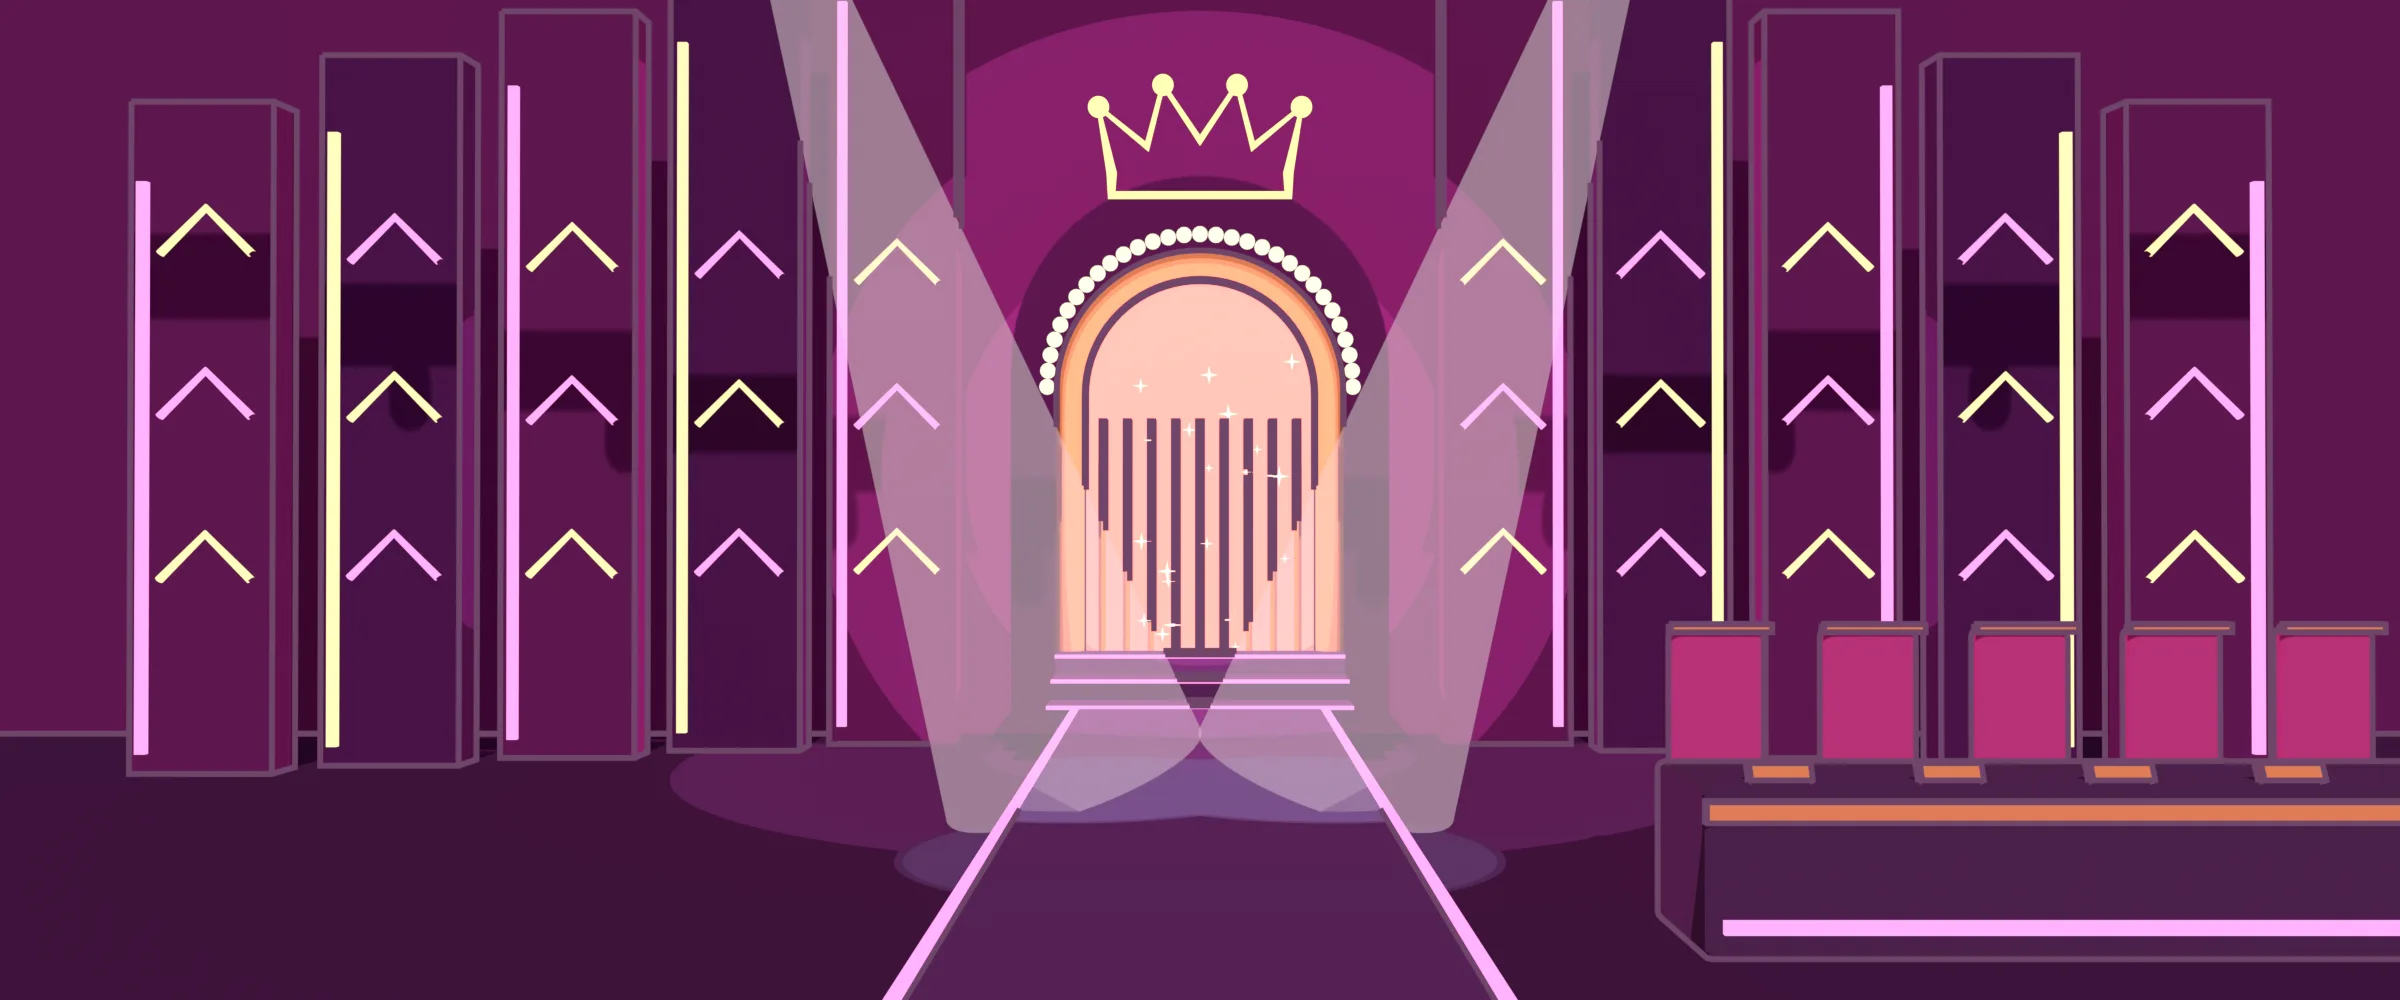
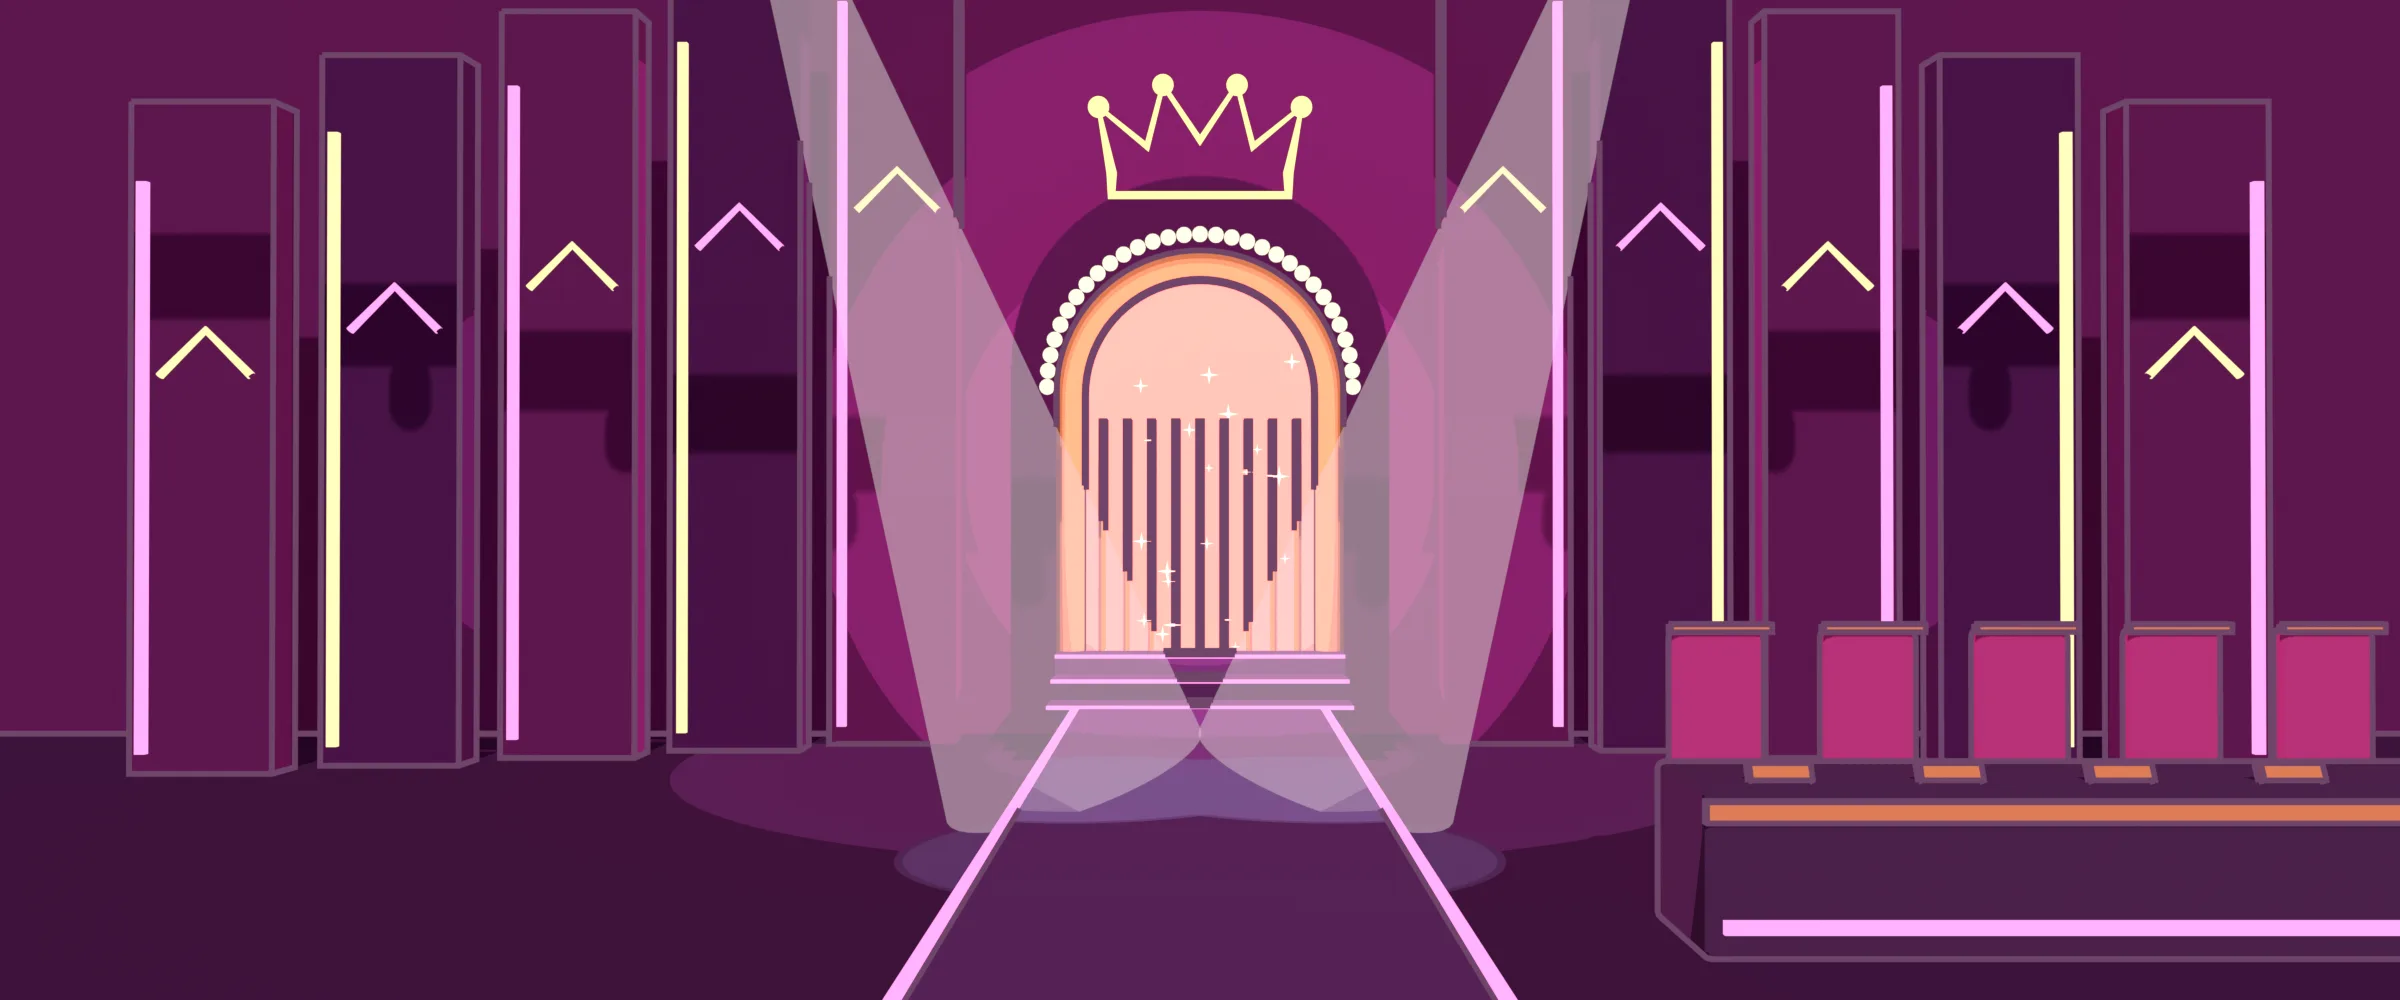
fix(dr): the sets sit back so the stage reads
User: "it seems a little busy and it makes it difficult to read". The main
stage keeps one neon chevron a panel and two beams; the room behind every
frame is blurred and veiled darker, and faint around a frame that has its
own lit box (the runway hall); the photographers' pit is invisible until it
flashes; the hall darkens behind the queen.

diff --git a/js/vp-dr/night-stage.js b/js/vp-dr/night-stage.js
@@ -76,7 +76,7 @@ export const NIGHT_STAGE_CSS = `${FINALE_STAGE_CSS}
 .rwx-bulbs i{width:6px;height:6px;border-radius:50%;background:#ffd66b;box-shadow:0 0 8px #ffd66b;animation:rwx-bulb 1.2s steps(2) infinite;animation-delay:var(--dl)}
 @keyframes rwx-bulb{50%{background:#5a3a10;box-shadow:none}}
 .rwx-hall{position:relative;height:230px;margin-top:10px;border-radius:14px;overflow:hidden;perspective:520px;
-  background:radial-gradient(60% 60% at 50% 20%,rgba(255,255,255,.08),transparent 70%),linear-gradient(180deg,rgba(10,3,8,.15),rgba(10,3,8,.55)),url(assets/sets/dr/mainstage.webp) center 62%/cover no-repeat,#0a0308}
+  background:radial-gradient(60% 60% at 50% 20%,rgba(255,255,255,.08),transparent 70%),radial-gradient(38% 70% at 50% 45%,rgba(10,3,8,.55),transparent 75%),linear-gradient(180deg,rgba(10,3,8,.35),rgba(10,3,8,.65)),url(assets/sets/dr/mainstage.webp) center 62%/cover no-repeat,#0a0308}
 /* the render has the runway; the drawn floor only under reduced sets */
 .rwx-hall .rwx-floor{opacity:0}
 .rwx-floor{position:absolute;left:50%;bottom:-40px;width:170px;height:420px;margin-left:-85px;transform-origin:50% 100%;
@@ -84,7 +84,7 @@ export const NIGHT_STAGE_CSS = `${FINALE_STAGE_CSS}
   box-shadow:-6px 0 0 #ff7bc8,6px 0 0 #ff7bc8,0 0 60px rgba(255,123,200,.4)}
 .rwx-pit{position:absolute;top:30%;bottom:0;width:22%;display:grid;grid-template-columns:repeat(3,1fr);align-content:end;gap:6px;padding:8px}
 .rwx-pit.l{left:0}.rwx-pit.r{right:0}
-.rwx-pit i{height:12px;border-radius:3px;background:#1e1016;box-shadow:inset 0 0 0 1px rgba(255,255,255,.06)}
+.rwx-pit i{height:12px;border-radius:3px;background:transparent}
 .fsx.flash .rwx-pit i{animation:rwx-flash .5s steps(1) 4;animation-delay:var(--dl)}
 @keyframes rwx-flash{50%{background:#fff;box-shadow:0 0 22px 8px rgba(255,255,255,.9)}}
 .rwx-q{position:absolute;left:50%;top:14px;display:none;flex-direction:column;align-items:center;gap:6px;transform:translateX(-50%)}

diff --git a/js/vp-dr/finale-stage.js b/js/vp-dr/finale-stage.js
@@ -77,10 +77,12 @@ export const FINALE_STAGE_CSS = `
 /* THE SETS: each room is a render (tools/blender/dr-werkroom.py, dr-sets.py),
    under a dark veil so the cards on top still read. The main stage is the
    default: every unthemed frame (the finale, the crown) is on it too. */
-.fsx-bg::before{content:'';position:absolute;inset:0;pointer-events:none;
-  background:linear-gradient(180deg,rgba(8,2,10,.38),rgba(8,2,10,.62) 55%,rgba(8,2,10,.86)),url(assets/sets/dr/mainstage.webp) center 30%/cover no-repeat}
-.fsx.th-werk .fsx-bg::before{background-image:linear-gradient(180deg,rgba(5,4,15,.38),rgba(5,4,15,.62) 55%,rgba(5,4,15,.86)),url(assets/sets/dr/werkroom.webp)}
-.fsx.th-lounge .fsx-bg::before{background-image:linear-gradient(180deg,rgba(7,4,13,.38),rgba(7,4,13,.62) 55%,rgba(7,4,13,.86)),url(assets/sets/dr/untucked.webp)}
+.fsx-bg::before{content:'';position:absolute;inset:-6px;pointer-events:none;filter:blur(2.5px) saturate(.85);
+  background:linear-gradient(180deg,rgba(8,2,10,.5),rgba(8,2,10,.72) 55%,rgba(8,2,10,.9)),url(assets/sets/dr/mainstage.webp) center 30%/cover no-repeat}
+.fsx.th-werk .fsx-bg::before{background-image:linear-gradient(180deg,rgba(5,4,15,.5),rgba(5,4,15,.72) 55%,rgba(5,4,15,.9)),url(assets/sets/dr/werkroom.webp)}
+.fsx.th-lounge .fsx-bg::before{background-image:linear-gradient(180deg,rgba(7,4,13,.5),rgba(7,4,13,.72) 55%,rgba(7,4,13,.9)),url(assets/sets/dr/untucked.webp)}
+/* a frame with its own lit box (the runway hall) keeps the room faint around it */
+.fsx:has(.rwx-hall) .fsx-bg::before{opacity:.45}
 .fsx.th-exit .fsx-bg::before{background-image:linear-gradient(180deg,rgba(8,2,10,.25),rgba(8,2,10,.5) 55%,rgba(8,2,10,.8)),url(assets/sets/dr/exit.webp)}
 .fsx.th-exit .fsx-rays{display:none}
 .fsx.th-stage .fsx-rays{background:repeating-conic-gradient(from 180deg at 50% -12%,rgba(255,123,200,.07) 0 4deg,transparent 4deg 11deg)}

diff --git a/tools/blender/dr-sets.py b/tools/blender/dr-sets.py
@@ -157,8 +157,8 @@ def main_stage(lipsync=False):
             p = cube((1.4, 0.4, 9 - k * 0.6), (x, BY - 0.6 - k * 0.5, (9 - k * 0.6) / 2)); assign(p, wall2 if k % 2 else wall)
             s = cube((0.1, 0.06, 8 - k * 0.6), (x + side * 0.55, BY - 0.85 - k * 0.5, (8 - k * 0.6) / 2 + 0.2)); assign(s, strip if k % 2 == 0 else stripg); NOINK.append(s)
             # neon chevrons stacked up the panel
-            for c in range(3):
-                z = 2.2 + c * 1.6
+            for c in range(1):   # one chevron a panel: the wall is a backdrop, not the show
+                z = 6.2 - k * 0.5
                 neon_curve([(-0.45, -0.3), (0.0, 0.15), (0.45, -0.3)], (x - side * 0.05, BY - 0.82 - k * 0.5, z), strip if (k + c) % 2 else stripg, 0.04)
 
     # ── the entrance arch at the head of the runway: bulbs round a gold frame, a sequin curtain inside
@@ -242,7 +242,7 @@ def main_stage(lipsync=False):
         bpy.ops.object.light_add(type='SUN', location=(0, -4, 6))
         key = bpy.context.object; key.data.energy = 1.5; key.data.color = (1.0, 0.92, 0.95)
         key.rotation_euler = (math.radians(52), 0, math.radians(-12))
-        for (x, y, z) in cans[2:7]:
+        for (x, y, z) in cans[3:6:2]:
             beam((x, y, z), (x * 0.25, 3.5, 0.5), 7.5, 0.7, beamm)
         bpy.ops.object.light_add(type='POINT', location=(0, BY - 1.5, 3))
         p = bpy.context.object.data; p.energy = 900; p.color = (1.0, 0.75, 0.4)
